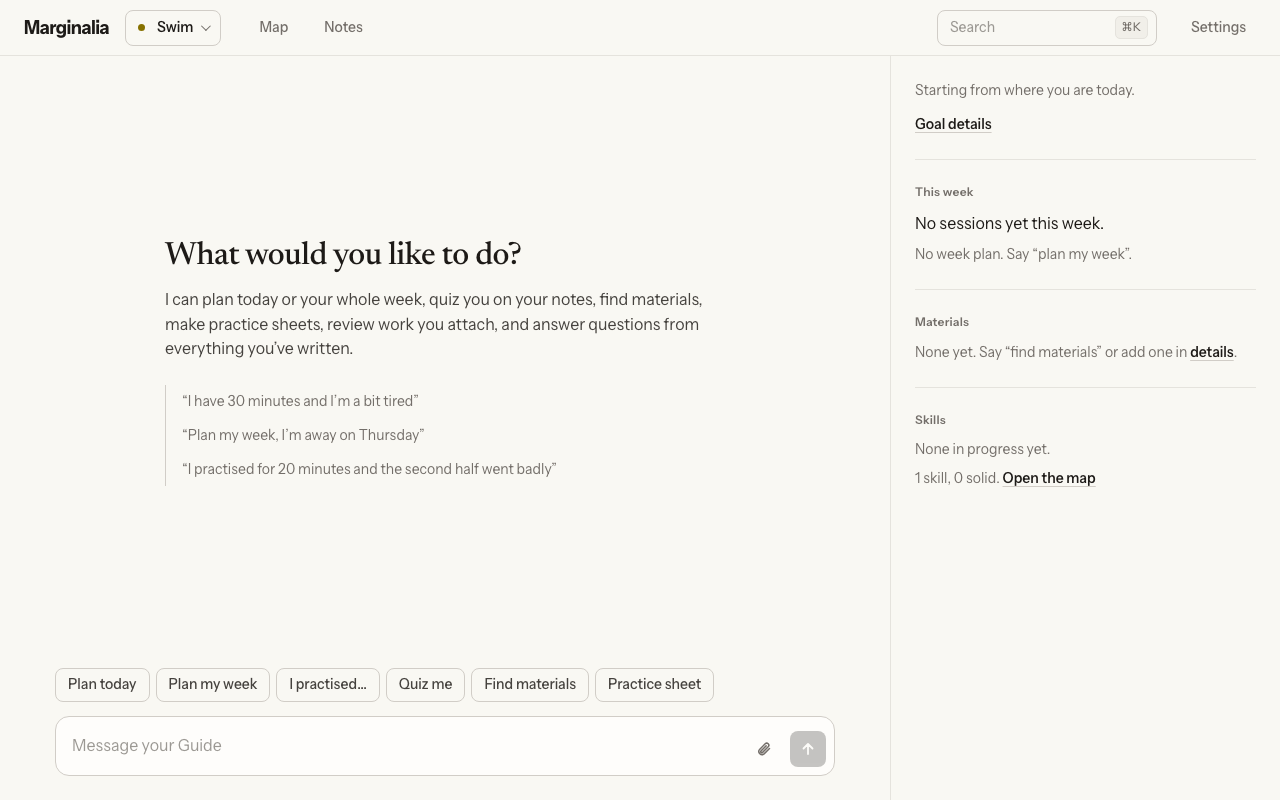
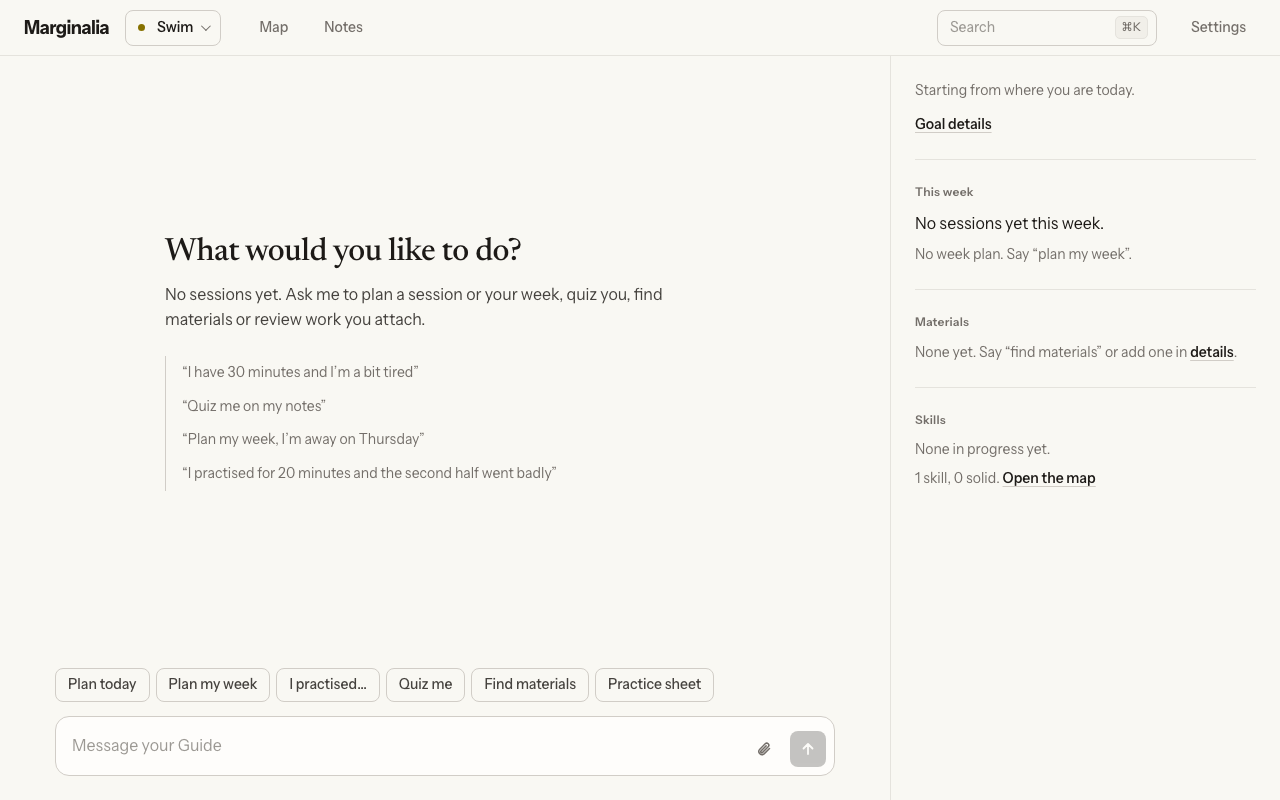
feat: the empty chat opens on where you are, with tappable example sentences
The greeting names today's planned focus, a rest day or the next roadmap step,
and when you last practised. Examples fill the message box. Clearer placeholder
for a material's page or time. Short screens show fewer examples.

Changed region(s): [[0.125, 0.2812, 0.5625, 0.4688], [0.1562, 0.5, 0.4375, 0.5938]]

diff --git a/components/chat/thread.tsx b/components/chat/thread.tsx
@@ -9,6 +9,11 @@ import {JobView} from "@/components/v2/job-view";
 import {EntryReview} from "@/components/features/entry-review";
 import {cancelJobInline} from "@/app/chat-actions";
 import {Live} from "./live";
+import {Example} from "./composer";
+import {goalDetail} from "@/lib/v2/goals";
+import {preferences} from "@/lib/db/personal";
+import {ago} from "@/lib/v2/when";
+import {todaySlot} from "@/lib/agent/week";
 import {MinutesCard, PlanCard, QuizCard, SaveAnswer, SuggestionCard, WeekCard} from "./cards";
 import {doneDays, weekById} from "@/lib/agent/week";
 import {nextDays} from "@/lib/agent/tasks";
@@ -56,11 +61,21 @@ export function Thread({goal}: {goal: string}) {
     return null;
   };
   return <div className="thread" role="log" aria-live="polite" aria-label="Conversation with the Guide">
-    {evs.length === 0 && <div className="hello"><h2>What would you like to do?</h2>
-      <p>I can plan today or your whole week, quiz you on your notes, find materials, make practice sheets, review work you attach, and answer questions from everything you’ve written.</p>
-      <ul><li>“I have 30 minutes and I’m a bit tired”</li><li>“Plan my week, I’m away on Thursday”</li><li>“I practised for 20 minutes and the second half went badly”</li></ul></div>}
+    {evs.length === 0 && <Hello goal={goal} />}
     {evs.map(e => { try { return one(e); } catch { return <p key={e.seq} className="msg-note">This message could not be shown.</p>; } })}
     <div id="thread-end" />
     <Live goal={goal} seq={st.seq} busy={st.busy} />
   </div>;
+}
+
+/** The empty thread opens on where the learner is, with sentences they can tap to start from. */
+function Hello({goal}: {goal: string}) {
+  const d = goalDetail(goal), step = d?.steps[d.current]?.title, slot = todaySlot(goal), mins = slot?.minutes || preferences().minutes;
+  const last = (sqlite.prepare("SELECT MAX(occurred_on) AS d FROM log_entry WHERE journey_id=?").get(goal) as {d: string | null}).d;
+  const title = slot ? (slot.minutes ? <>Today: <bdi>{slot.focus}</bdi></> : "Today is a rest day") : step ? <>Next: <bdi>{step}</bdi></> : "What would you like to do?";
+  const lead = slot?.minutes ? `${slot.minutes} minutes in your week plan. ` : slot ? "Your week plan has today off. " : "";
+  const examples = [`I have ${mins} minutes and I’m a bit tired`, step ? `Quiz me on ${step.replace(/^(The|A|An) /, w => w.toLowerCase())}` : "Quiz me on my notes", "Plan my week, I’m away on Thursday", "I practised for 20 minutes and the second half went badly"];
+  return <div className="hello"><h2>{title}</h2>
+    <p>{lead}{last ? `Last session ${ago(last)}.` : "No sessions yet."} Ask me to plan a session or your week, quiz you, find materials or review work you attach.</p>
+    <ul aria-label="Try saying">{examples.map(t => <li key={t}><Example text={t} /></li>)}</ul></div>;
 }

diff --git a/components/chat/composer.tsx b/components/chat/composer.tsx
@@ -1,11 +1,22 @@
 "use client";
-import {useRef, useState, useTransition} from "react";
+import {useEffect, useRef, useState, useTransition} from "react";
 import {quick, send} from "@/app/chat-actions";
+
+const FILL = "marginalia:fill";
+
+/** An example sentence that drops itself into the message box, ready to edit and send. */
+export function Example({text}: {text: string}) {
+  return <button type="button" className="example" onClick={() => window.dispatchEvent(new CustomEvent(FILL, {detail: text}))}>“{text}”</button>;
+}
 
 /** The one message box. Enter sends, Shift+Enter adds a line, drop or attach files for feedback. */
 export function Composer({goal, busy}: {goal: string; busy: boolean}) {
   const [text, setText] = useState(""), [files, setFiles] = useState<File[]>([]), [err, setErr] = useState(""), [over, setOver] = useState(false), [pending, go] = useTransition();
   const ta = useRef<HTMLTextAreaElement>(null), pick = useRef<HTMLInputElement>(null);
+  useEffect(() => {
+    const fill = (e: Event) => { const el = ta.current; setText(String((e as CustomEvent).detail ?? "")); if (el) requestAnimationFrame(() => { el.focus(); el.setSelectionRange(el.value.length, el.value.length); el.style.height = "auto"; el.style.height = Math.min(el.scrollHeight, 180) + "px"; }); };
+    window.addEventListener(FILL, fill); return () => window.removeEventListener(FILL, fill);
+  }, []);
   const submit = () => {
     if (pending || (!text.trim() && !files.length)) return;
     const fd = new FormData(); fd.set("text", text); files.forEach(f => fd.append("files", f));

diff --git a/components/chat/panel.tsx b/components/chat/panel.tsx
@@ -31,7 +31,7 @@ export function GoalPanel({goal}: {goal: string}) {
 
     <section><h3>Materials</h3>
       {mats.length ? <ul className="mini-list">{mats.slice(0, 4).map(m => <li key={m.id}><p className="mt">{m.url ? <a href={m.url} target="_blank" rel="noopener noreferrer">{m.title}</a> : m.title}<span className="muted small"> · {m.kind}</span></p>
-        <form action={savePointer.bind(null, goal, m.id)} className="ptr-form"><input name="pointer" defaultValue={m.pointer} placeholder="Where you are" aria-label={`Where you are in ${m.title}`} maxLength={140} /><button className="btn btn--text small">Save</button></form></li>)}</ul>
+        <form action={savePointer.bind(null, goal, m.id)} className="ptr-form"><input name="pointer" defaultValue={m.pointer} placeholder="Add page or time" aria-label={`Where you are in ${m.title}`} maxLength={140} /><button className="btn btn--text small">Save</button></form></li>)}</ul>
         : <p className="muted small">None yet. Say “find materials” or add one in <Link className="link" href={`/goals/${goal}?tab=materials`}>details</Link>.</p>}</section>
 
     <section><h3>Skills</h3>

diff --git a/app/theme.css b/app/theme.css
@@ -708,3 +708,10 @@ input,textarea { unicode-bidi:plaintext; }
 .glist .gl-n { flex:1; min-width:0; overflow:hidden; text-overflow:ellipsis; white-space:nowrap; unicode-bidi:plaintext; }
 @media (max-width:899px) { .head-actions .btn--text { display:none; } }
 .glist li,.glist label { min-width:0; max-width:100%; } .glist label { display:flex; align-items:center; gap:var(--s2); } .glist label small { flex:none; margin-left:auto; } .glist .gl-n { unicode-bidi:isolate; text-align:start; }
+
+/* v14: tappable examples in the empty thread */
+.hello .example { all:unset; cursor:pointer; color:inherit; font:inherit; text-align:start; border-radius:4px; }
+.hello .example:hover { color:var(--ink); text-decoration:underline; text-decoration-color:var(--rule-strong); text-underline-offset:3px; }
+.hello .example:focus-visible { outline:2px solid var(--marker); outline-offset:2px; }
+.hello h2 { overflow-wrap:anywhere; }
+@media (max-height:700px) { .hello { padding-block:var(--s4); } .hello h2 { font-size:1.6rem; } .hello li:nth-child(n+3) { display:none; } }
